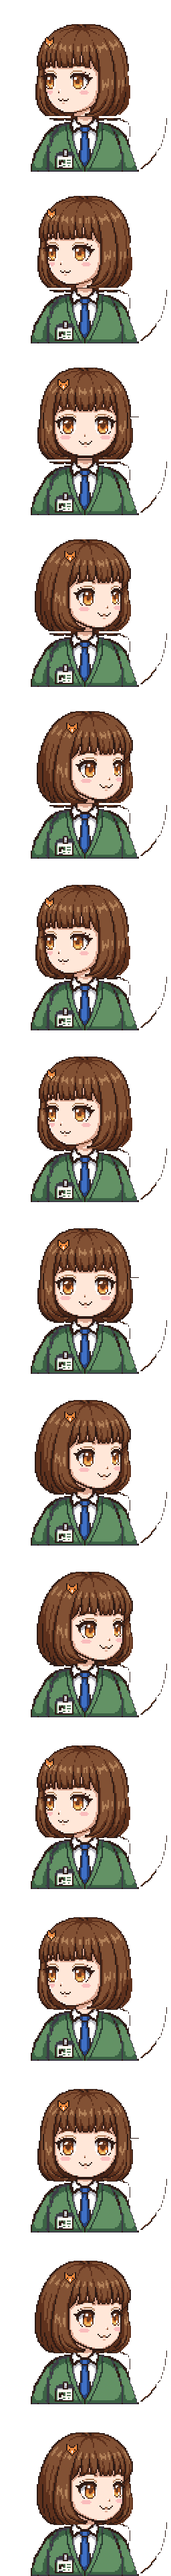
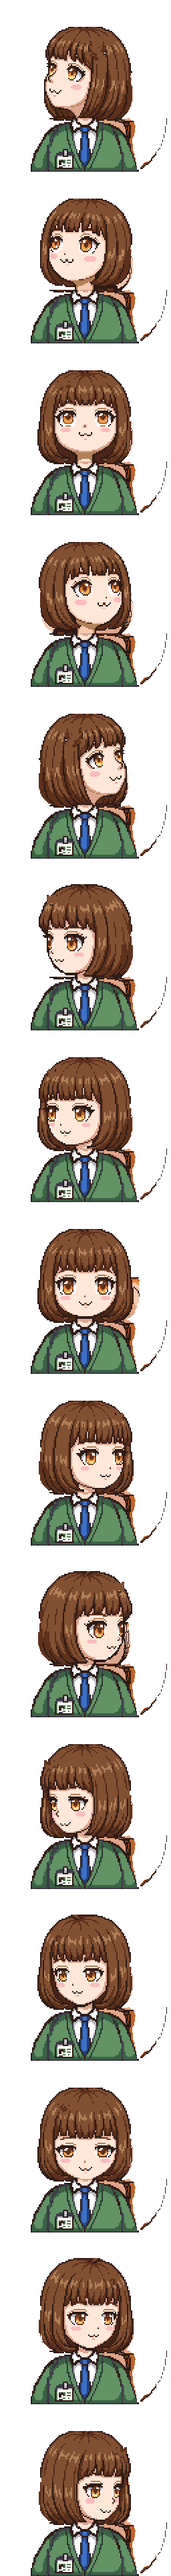
V8.1 fox8: 15 per-angle heads (palette-unified, mirrored yaw>0), per-head eye/mouth frames, big cartoon mouth, tail/ahoge re-outlined rotation, tail-gap fill, zoom ×0.5 steps for 256px

diff --git a/js/app.js b/js/app.js
@@ -8,17 +8,17 @@ const canvas = $('c'), ctx = canvas.getContext('2d');
 const video = $('video');
 const off = document.createElement('canvas'), octx = off.getContext('2d');      // 원본 해상도 합성
 const hc = document.createElement('canvas'), hctx = hc.getContext('2d');        // 머리 그룹 (롤 회전용)
-import { mic, startMic, micTick } from './mic.js?v=20261022-v8';
-import { createTail, tailStep } from './tail.js?v=20261022-v8';
-import { createEars, earStep } from './ears.js?v=20261022-v8';
+import { mic, startMic, micTick } from './mic.js?v=20261022-v8b';
+import { createTail, tailStep } from './tail.js?v=20261022-v8b';
+import { createEars, earStep } from './ears.js?v=20261022-v8b';
 const earSt = createEars(); let earLast = 0;
-import { createAhoge, ahogeStep } from './ahoge.js?v=20261022-v8';
+import { createAhoge, ahogeStep } from './ahoge.js?v=20261022-v8b';
 const ahoSt = createAhoge(); let ahoLast = 0;
 const CHARS = { fox8: 'assets/fox8/', fox71: 'assets/fox71/', fox7: 'assets/fox7/', fox65: 'assets/fox65/', fox64: 'assets/fox64/', fox63: 'assets/fox63/', fox62: 'assets/fox62/', fox61: 'assets/fox61/', fox6: 'assets/fox6/', fox53: 'assets/fox53/', fox52: 'assets/fox52/', fox51: 'assets/fox51/', fox5: 'assets/fox5/', fox4: 'assets/fox4/', fox3: 'assets/fox3/', fox2: 'assets/fox2/', test: 'assets/test/' };
 // ---------- 소품 (모든 캐릭터 공통, 128px 캔버스 기준 위치) ----------
 const PROPS = { coffee: { name: '☕ 커피', x: 76, y: 94, hold: true }, laptop: { name: '💻 노트북', x: 44, y: 98 }, bag: { name: '👜 출근 가방', x: 0, y: 97 }, plant: { name: '🪴 화분', x: 98, y: 96 } };
 const propImg = {};
-for (const k of Object.keys(PROPS)) { const i = new Image(); i.src = 'assets/props/' + k + '.png?v=20261022-v8'; propImg[k] = i; }
+for (const k of Object.keys(PROPS)) { const i = new Image(); i.src = 'assets/props/' + k + '.png?v=20261022-v8b'; propImg[k] = i; }
 function drawProps(c, S, breath) {
   const on = window.__PS?.props || [], f = S / 128;
   for (const k of Object.keys(PROPS)) {
@@ -167,10 +167,13 @@ function resize() {
   if (!ch) return;
   const r = $('stage').getBoundingClientRect(), dpr = window.devicePixelRatio || 1;
   const P = window.__PS || {};
-  scale = P.zoom ? Math.max(1, Math.round(P.zoom * dpr * 128 / ch.S)) : Math.max(1, Math.floor(Math.min(r.width, r.height) * dpr / ch.S));
+  // 크기: 128px 캐릭터 기준 배율. 256px(fox8)은 ×0.5 단위로 스냅 (×1=0.5배, ×2=1배 ...)
+  const zf = P.zoom ? (ch.S > 128 ? Math.max(0.5, Math.round(P.zoom * 128 / ch.S * 2) / 2) : null) : null;
+  scale = P.zoom ? (zf ? Math.max(1, Math.ceil(zf * dpr)) : Math.max(1, Math.round(P.zoom * dpr * 128 / ch.S))) : Math.max(1, Math.floor(Math.min(r.width, r.height) * dpr / ch.S));
   canvas.style.transform = `translate(${P.px || 0}px, ${P.py || 0}px)`;
   canvas.width = canvas.height = ch.S * scale;
-  canvas.style.width = canvas.style.height = (ch.S * scale / dpr) + 'px';
+  canvas.style.width = canvas.style.height = (zf ? ch.S * zf : ch.S * scale / dpr) + 'px';
+  window.__zoomInfo = { zoom: P.zoom || 0, zf, scale, css: canvas.style.width };
   ctx.imageSmoothingEnabled = false;
 }
 new ResizeObserver(resize).observe($('stage'));

diff --git a/index.html b/index.html
@@ -1,6 +1,6 @@
 <!doctype html><html lang="ko"><head><meta charset="utf-8">
 <meta name="viewport" content="width=device-width,initial-scale=1,viewport-fit=cover">
-<title>픽셀 VTuber — 퇴근여우</title><link rel="icon" href="data:,"><link rel="stylesheet" href="style.css?v=20261022-v8"></head><body>
+<title>픽셀 VTuber — 퇴근여우</title><link rel="icon" href="data:,"><link rel="stylesheet" href="style.css?v=20261022-v8b"></head><body>
 <div id="stage"><canvas id="c" width="96" height="96"></canvas></div>
 <div id="hud"><span id="fps">FPS: -</span> <span id="status">대기 중</span> <span id="pose"></span><div id="meter" hidden>신남 <span class="track"><span id="meterBar"></span></span></div></div>
 <video id="video" playsinline muted autoplay></video>
@@ -39,4 +39,4 @@
  <div id="obsMsg" class="hint" hidden></div>
  <p class="hint">단축키: 1 자동 · 2 웃음 · 3 피곤 · 4 놀람 · 5 의기양양 · h 클린 뷰 · Esc/더블탭 해제</p>
 </div>
-<script type="module" src="js/app.js?v=20261022-v8"></script></body></html>
+<script type="module" src="js/app.js?v=20261022-v8b"></script></body></html>
